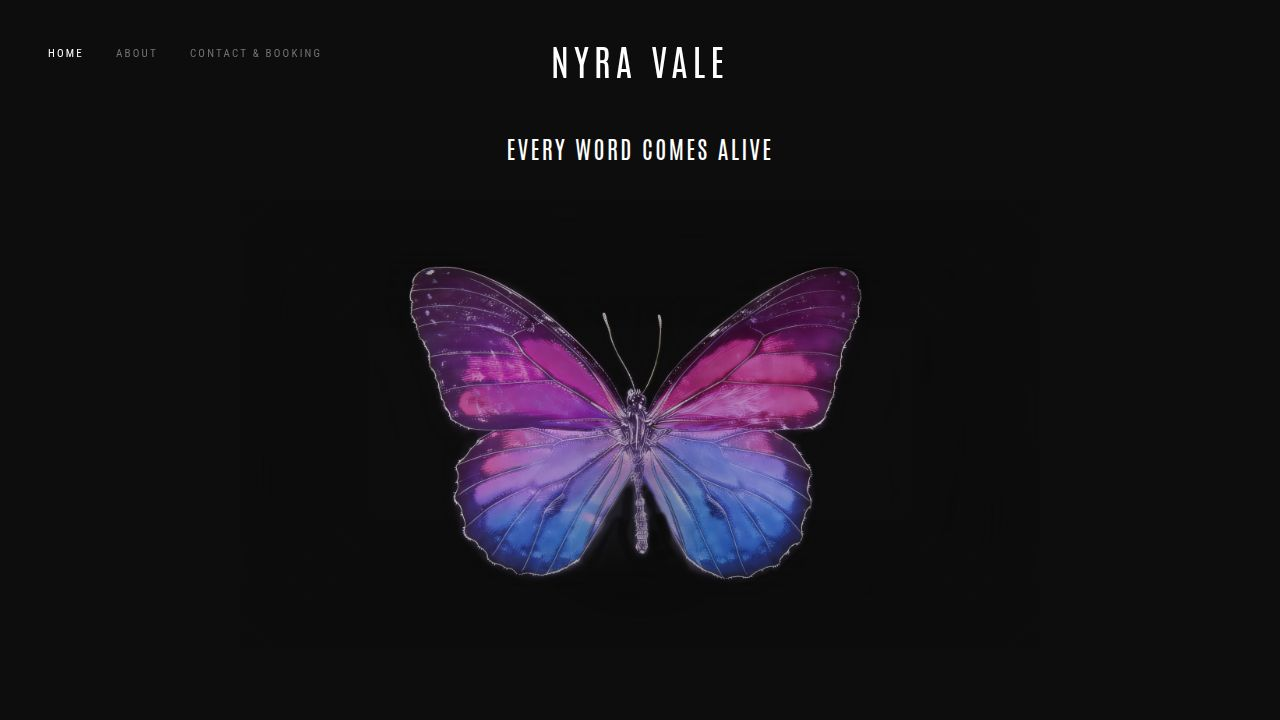
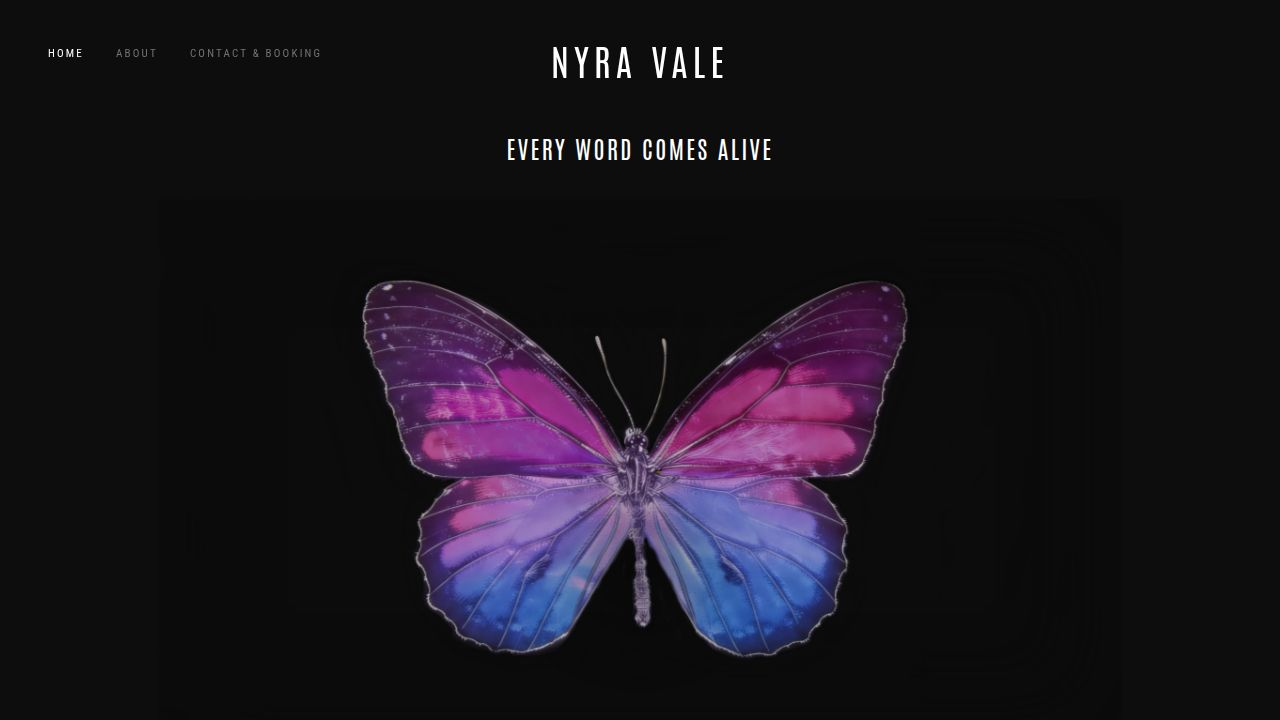
Update homepage visual elements with new styling and spacing
Adjusted homepage layout and image rendering by modifying container dimensions, applying mask and shadow effects, and fine-tuning element spacing within `home.tsx`.

Replit-Commit-Author: Agent
Replit-Commit-Session-Id: 9119b3c9-1be0-4b90-be5f-4468bb436813
Replit-Commit-Checkpoint-Type: full_checkpoint
Replit-Commit-Event-Id: 6888d794-18c8-43c3-bf18-e006cffbd3d3
Replit-Commit-Screenshot-Url: https://storage.googleapis.com/screenshot-production-us-central1/acc114d5-8ff7-4aa1-90f1-90320e5e6cb7/9119b3c9-1be0-4b90-be5f-4468bb436813/D7grpSK
Replit-Helium-Checkpoint-Created: true

Changed region(s): [[0.2812, 0.3667, 0.7188, 0.9167]]

diff --git a/client/src/pages/home.tsx b/client/src/pages/home.tsx
@@ -29,7 +29,7 @@ export default function Home() {
         </motion.div>
 
         {/* Projects Grid */}
-        <div className="w-full max-w-5xl flex flex-col gap-16 md:gap-24">
+        <div className="w-full max-w-5xl flex flex-col gap-12 md:gap-16">
           
           {/* Hero Image */}
           <motion.div 
@@ -37,21 +37,25 @@ export default function Home() {
             whileInView={{ opacity: 1, scale: 1 }}
             viewport={{ once: true }}
             transition={{ duration: 0.8 }}
-            className="w-[70%] mx-auto relative aspect-[4/3] bg-transparent flex items-center justify-center my-8 md:my-12"
+            className="w-[94%] mx-auto relative aspect-video bg-[#0d0d0d] overflow-hidden flex items-center justify-center"
           >
             <motion.img 
               src={heroImage} 
               alt="Artistic Butterfly" 
-              className="w-full h-full object-contain"
+              className="w-full h-full object-contain opacity-80"
               style={{
-                filter: "drop-shadow(0px 0px 40px rgba(168, 85, 247, 0.4))"
+                maskImage: "radial-gradient(ellipse at center, black 60%, transparent 95%)",
+                WebkitMaskImage: "radial-gradient(ellipse at center, black 60%, transparent 95%)"
               }}
             />
             {/* Box Shadow Overlay for Blended Edges */}
-             <div 
-              className="absolute inset-0 pointer-events-none opacity-60"
+            <div className="absolute inset-0 shadow-[inset_0_0_80px_40px_#0d0d0d] pointer-events-none opacity-80" />
+            
+            {/* Darkened area for butterfly lower body */}
+            <div 
+              className="absolute bottom-[20%] left-1/2 -translate-x-1/2 w-[15%] h-[25%] blur-2xl pointer-events-none opacity-80"
               style={{
-                background: "radial-gradient(circle at center, transparent 30%, black 80%)"
+                background: "radial-gradient(ellipse at center, rgba(0,0,0,0.9) 0%, transparent 70%)"
               }}
             />
           </motion.div>
